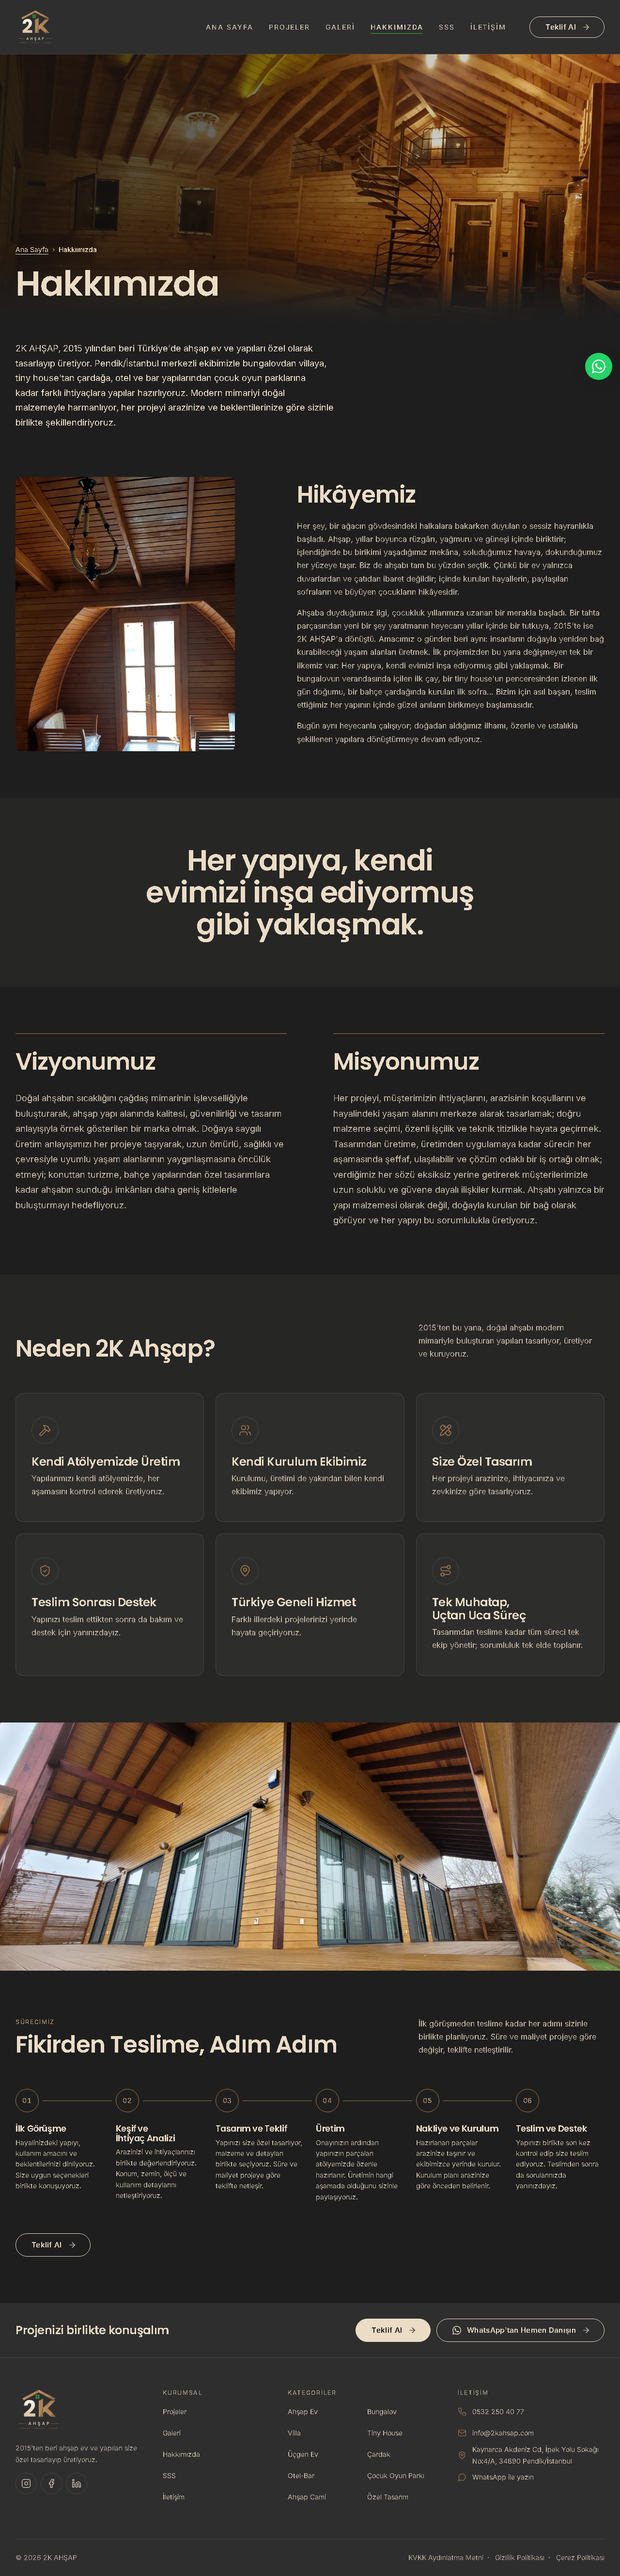
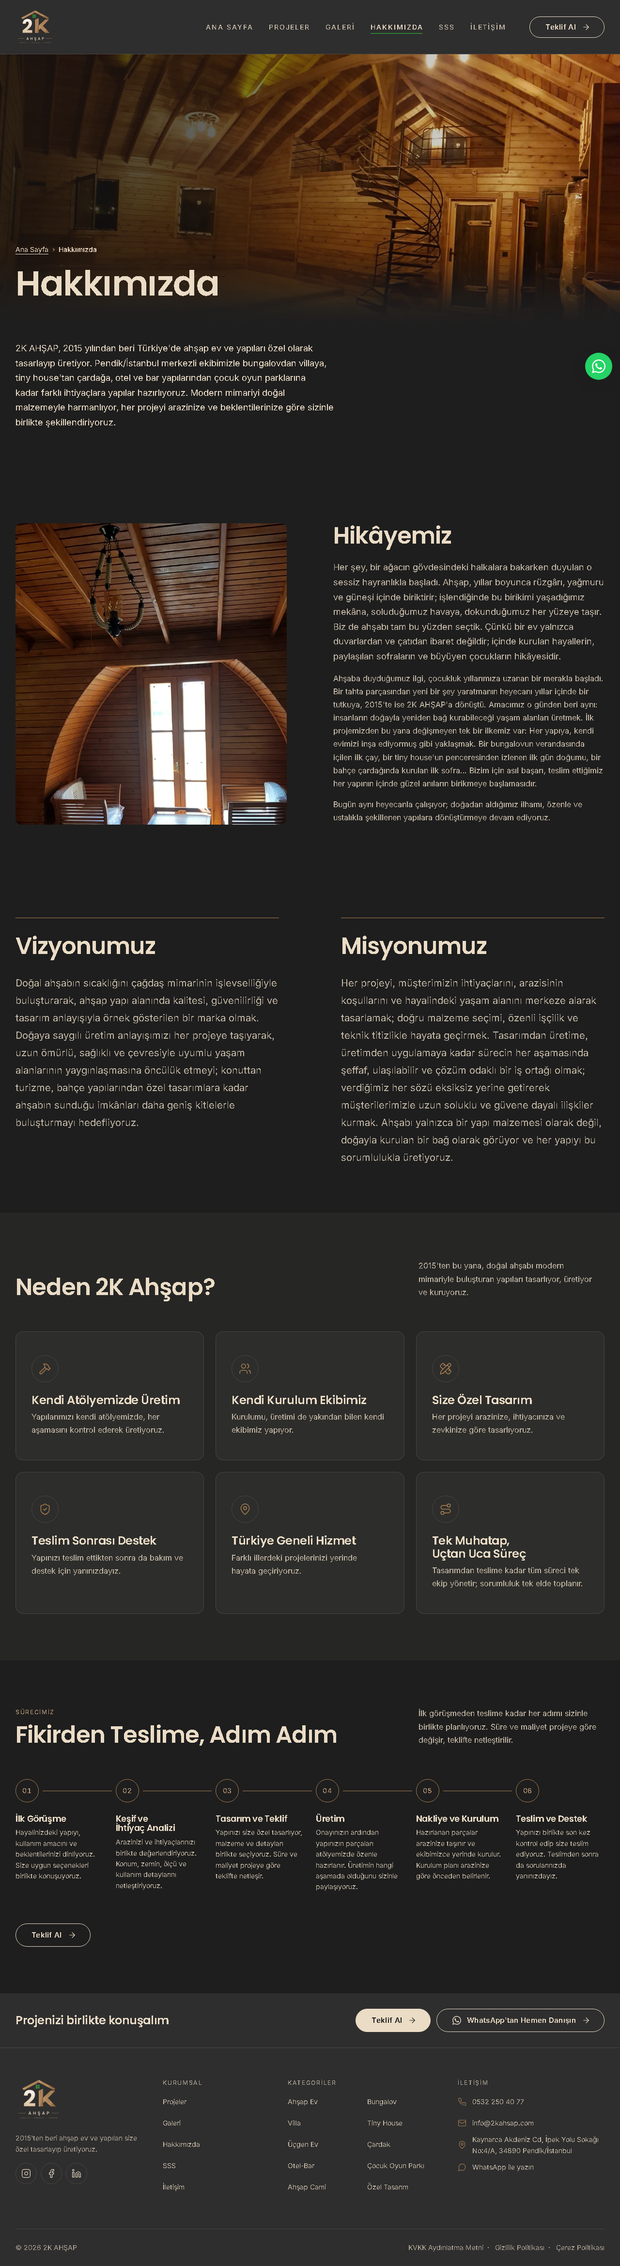
Hakkımızda'yı bütün olarak düzenle: eşit boy hikâye, alıntı ve fotoğraf bandı kaldırıldı, okunur vizyon/misyon
- Hikâyemiz: masaüstünde fotoğraf sütunu metin sütunu kadar uzar, ikisi aynı hizada başlar ve biter; kadraj her
  genişlikte fotoğrafın üst %69'u (konteyner birimleri), minderler dışarıda; eşit sütunlar, ilk paragraf giriş boyutu
- Ayrı alıntı kaldırıldı; cümle yalnızca hikâyenin ikinci paragrafında
- Vizyonumuz / Misyonumuz: gövde 18px (≥ 1280px'te 20px), satır aralığı 1.8, sütun ≤ 60ch, geniş sütun arası
- Neden 2K Ahşap ile Sürecimiz arasındaki tam genişlik fotoğraf bandı kaldırıldı
- Bölümler arası her yerde iki ritim (192 / 128px); önce/sonra tam sayfa görüntüleri docs/hakkimizda/v4/
- Hakkımızda görsel referansları yenilendi

diff --git a/docs/hakkimizda/v4/README.md b/docs/hakkimizda/v4/README.md
@@ -1,0 +1,15 @@
+# Hakkımızda, sayfa bütünü (15 Ekim 2026, müşteri onaylı)
+
+`1366x657-{once,sonra}.png`, `375x667-{once,sonra}.png`: tam sayfa, yakınlaştırma %100. Önce = `7d0100c`.
+
+- **Hikâyemiz:** Masaüstünde fotoğraf sütunu metin sütunu kadar uzar; ikisi aynı pikselde başlar ve biter
+  (1024px: 1010–1794, 1366px: 979–1601, 1920px: 1185–1807). Yapışkan fotoğraf yerine bu seçildi: yapışkan
+  fotoğraf sayfa açılışında ve tam sayfa görünümde sütunun üstünde kalır, metin altında tek başına uzar.
+  Kadraj her genişlikte fotoğrafın üst %69'u (konteyner birimleriyle): avize ve kemerli pencere içeride, öndeki
+  naylonlu minderler dışarıda. Eşit sütunlar; ilk paragraf `--text-giris`, satırlar ≤ 65ch.
+- **Alıntı:** Kaldırıldı; cümle yalnızca hikâyenin ikinci paragrafında geçer.
+- **Vizyonumuz / Misyonumuz:** Gövde 18px (≥ 1280px'te 20px), satır aralığı 1.8, sütun ≤ 60ch, sütun arası
+  96px (≥ 1280px'te 128px).
+- **Fotoğraf bandı** (Neden 2K Ahşap ile Sürecimiz arası): kaldırıldı.
+- **Boşluklar:** Bölümler arası her yerde iki ritim (masaüstü 192px, mobil 128px); önce 1366px'te
+  108 / 582 / 192 / 738px idi.
